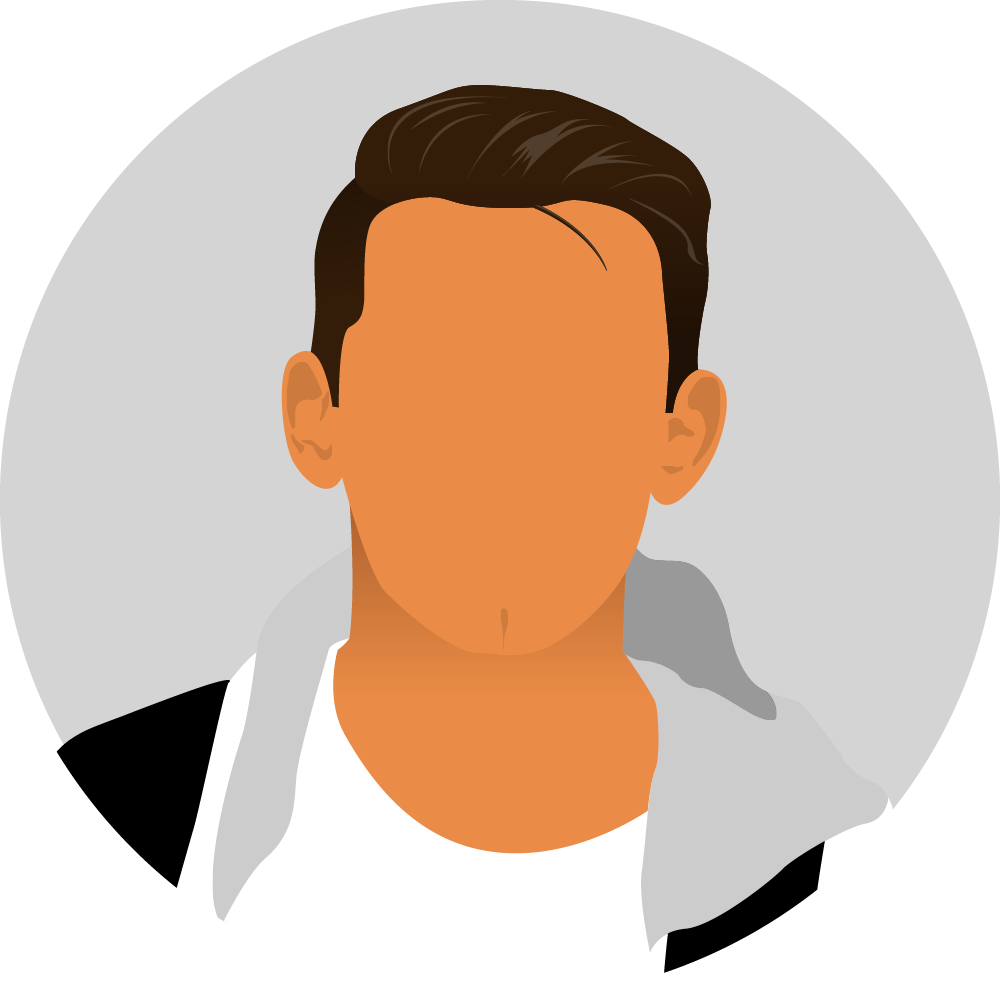
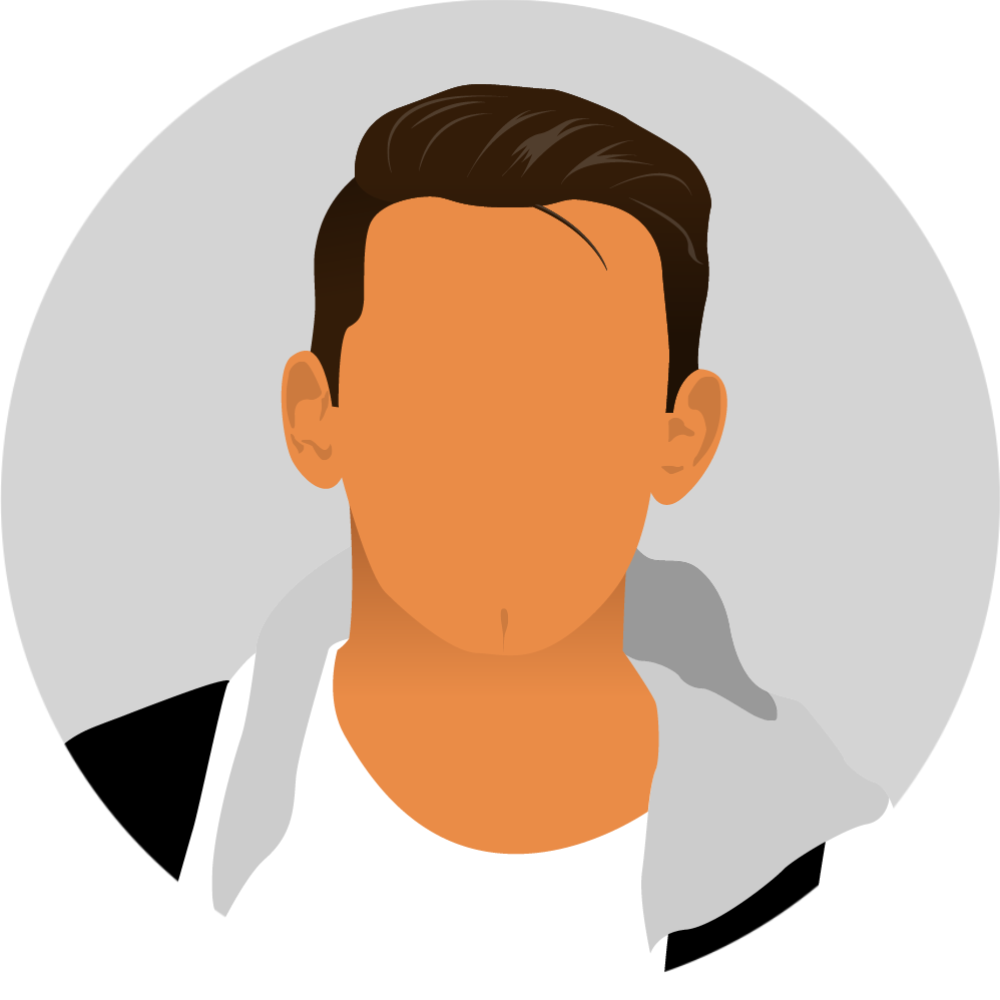
Polish up TwoFace: fix bottom mistmatched edge; Implement Parallax glare effect (looks weird when flipping).

diff --git a/src/components/TwoFace.jsx b/src/components/TwoFace.jsx
@@ -1,15 +1,20 @@
 import React, { useState, useEffect } from 'react'
 
 import Parallax from './Parallax'
+import debounce from 'lodash/debounce'
 
 
 function TwoFace(props) {
     const [real, setReal] = useState(false)
     const [flipping, setFlipping] = useState(false)
     const [showFace, setShowFace] = useState(false)
+    const [shining, setShining] = useState(false)
+    const [depth, setDepth] = useState(0)
+    const [clicked, setClicked] = useState(false)
     const { ready } = props
 
     function togglePic() {
+        if (!clicked) setClicked(true)
         setReal(!real)
         setFlipping(true)
     }
@@ -18,15 +23,31 @@ function TwoFace(props) {
         if (ready) {
             setTimeout(() => {
                 setShowFace(true)
+                // setTimeout()
+                // document.addEventListener('mousemove', giveMeJob)
             }, .5*1000)
         }
-    }, [ready]) 
+    }, [ready])
+
+    // function giveMeJob(e) {
+    //     if (!clicked) return
+    //     let x = e.pageX
+    //     let y = e.pageY
+    //     let w = window.innerWidth
+    //     let h = window.innerHeight
+    //     const diffx = x-(w/2)
+    //     const diffy = y-(h/2)
+    //     // console.log(w, x, w, h)
+    //     let dist = Math.sqrt(Math.pow(diffx, 2) + Math.pow(diffy, 2))
+    //     setDepth(dist/2)
+    // }
+
     
     return (
-        <Parallax>
-            <div className={`trans ${!showFace && 'shrink'}`}>
+        <Parallax fs className='pmb'>
+            <div className={`trans ${!showFace && 'shrink'} ${flipping && 'flipping'}`}>
                 <div
-                    className={`${flipping && 'flipping'} trans two-face-container ` + props.className}
+                    className={`${flipping && 'flipping'} trans two-face-container`}
                     onClick={togglePic}
                     onAnimationStart={() => setFlipping(true)}
                     onAnimationEnd={() => setFlipping(false)}
@@ -34,7 +55,11 @@ function TwoFace(props) {
                     <img className={`two-face real`} src={require('../img/real.png')} />
                     <img className={`two-face vec ${real ? 'hidden' : ''}`} src={require('../img/vec-t.png')} />
                 </div>
+
             </div>
+            {depth >0 && <h3 style={{ position: 'absolute',  transform: `translate(45%, -110px) translateZ(${depth}px)`, userSelect: 'none' }}>
+                Give me job
+            </h3>}
         </Parallax>
     )
 }

diff --git a/src/components/Parallax.jsx b/src/components/Parallax.jsx
@@ -2,18 +2,25 @@ import React from 'react'
 import Tilt from 'react-parallax-tilt'
 
 const Parallax = props => {
+  const { shine } = props
+
+  const shineProps = shine ? {
+    glareEnable: true,
+    glareMaxOpacity: .9,
+    glareColor: '#ffffff',
+    glarePosition: 'left',
+    glareBorderRadius: '999px',
+  } : {}
+
   return (
     <Tilt
       trackOnWindow={props.fs || false}
       className={props.className + ' ' + 'parallax-effect'}
       transitionSpeed={1000}
-      // style={{ border: '1px solid red' }}
       tiltReverse={true}
       perspective={props.perspective || 500}
-      style={{ ...props.style,  }}
-      // glareEnable={true} glareMaxOpacity={0.5} glareColor="#ffffff" glarePosition="bottom"
-      // scale={1.05}
-
+      style={{ ...props.style }}
+      {...shineProps}
     >
       {props.children}
     </Tilt>

diff --git a/src/styles.js b/src/styles.js
@@ -170,6 +170,11 @@ export const GlobalStyles = createGlobalStyle`
         }
     }
 
+    .two-face-container {
+        width: 250px;
+        height: 250px;
+    }
+
     .two-face-container:hover {
         .vec { background: ${theme.complement}; }
 
@@ -347,6 +352,7 @@ export const GlobalStyles = createGlobalStyle`
 
     .parallax-effect {
         transform-style: preserve-3d;
+        * { transform-style: preserve-3d; }
     }
 `
 

diff --git a/src/components/MyName.jsx b/src/components/MyName.jsx
@@ -29,7 +29,7 @@ function MyName(props) {
         if (initialReady && !ready) { // time to start title animation
             setTimeout(() => setReady(true), 1*1000)
         }
-    })
+    }, [initialReady])
 
     return (
         <>
